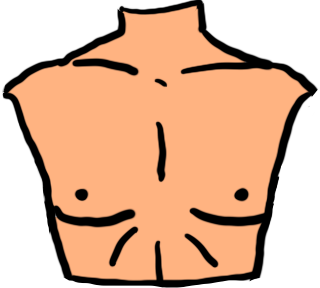
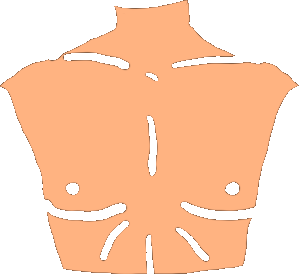
UPDATE: body now back

Changed region(s): [[0.0, 0.0, 1.0, 1.0], [0.4816, 0.4073, 0.5418, 0.64], [0.4816, 0.2618, 0.5418, 0.32]]

diff --git a/src/data/humans.ts b/src/data/humans.ts
@@ -155,10 +155,76 @@ const body_legacy: Parts[] = [
     },
 ];
 
+const back: Parts[] = [
+    {
+        uri: require('./Back/body.png'),
+        name: 'body',
+        width: 559,
+        height: 1286,
+        left: 0,
+        top: 0,
+        disabled: true,
+    },
+    {
+        uri: require('./Back/legs.png'),
+        name: '다리',
+        width: 215,
+        height: 550,
+        left: 30.05,
+        top: 54.59,
+        disabled: false,
+    },
+    {
+        uri: require('./Back/hip.png'),
+        name: '허리',
+        width: 227,
+        height: 291,
+        left: 28.98,
+        top: 33.59,
+        disabled: false,
+    },
+    {
+        uri: require('./Back/chest.png'),
+        name: '등',
+        width: 340,
+        height: 255,
+        left: 18.78,
+        top: 14.46,
+        disabled: false,
+    },
+    {
+        uri: require('./Back/left_arm.png'),
+        name: '팔',
+        width: 141,
+        height: 406,
+        left: 2.68,
+        top: 26.28,
+        disabled: false,
+    },
+    {
+        uri: require('./Back/right_arm.png'),
+        name: '팔',
+        width: 140,
+        height: 409,
+        left: 69.59,
+        top: 25.51,
+        disabled: false,
+    },
+    {
+        uri: require('./Back/head.png'),
+        name: '머리',
+        width: 144,
+        height: 168,
+        left: 35.78,
+        top: 2.33,
+        disabled: true,
+    },
+];
+
 const body: Parts[] = [
     {
-        uri: require('./Human/Human-1.png'),
-        name: 'default',
+        uri: require('./Human/body.png'),
+        name: 'body',
         width: 559,
         height: 1286,
         left: 0,
@@ -168,50 +234,50 @@ const body: Parts[] = [
     {
         uri: require('./Human/legs.png'),
         name: '다리',
-        width: 237,
-        height: 559,
-        left: 27.91,
-        top: 54.43,
+        width: 224,
+        height: 534,
+        left: 28.26,
+        top: 55.52,
         disabled: false,
     },
     {
         uri: require('./Human/stomach.png'),
         name: '복부',
-        width: 230,
-        height: 267,
-        left: 27.91,
-        top: 35.54,
+        width: 212,
+        height: 254,
+        left: 29.7,
+        top: 36.16,
         disabled: false,
     },
     {
         uri: require('./Human/chest.png'),
         name: '흉부',
-        width: 320,
-        height: 288,
-        left: 19.68,
-        top: 14.46,
+        width: 299,
+        height: 275,
+        left: 21.47,
+        top: 14.93,
         disabled: false,
     },
     {
         uri: require('./Human/arms-r.png'),
         name: '팔',
-        width: 151,
-        height: 467,
-        left: 2.33,
-        top: 21.46,
+        width: 139,
+        height: 455,
+        left: 3.58,
+        top: 22.08,
         disabled: false,
     },
     {
         uri: require('./Human/arms-l.png'),
         name: '팔',
-        width: 157,
-        height: 467,
-        left: 67.62,
-        top: 21.46,
+        width: 141,
+        height: 455,
+        left: 68.87,
+        top: 22.08,
         disabled: false,
     },
     {
-        uri: require('./Human/Head.png'),
+        uri: require('./Human/head.png'),
         name: '머리',
         width: 161,
         height: 196,
@@ -277,7 +343,7 @@ const neck: Parts[] = [
 
 
 export const humans: Humans = {
-    'body': body,
+    'body': back,
     'neck': neck,
 }
 

diff --git a/App.tsx b/App.tsx
@@ -9,10 +9,22 @@ import DetailScreen from "./src/screens/DetailScreen";
 
 const Stack = createNativeStackNavigator<RootStackParamList>();
 
+const MyTheme = {
+  dark: false,
+  colors: {
+    primary: 'rgb(255, 45, 85)',
+    background: 'rgb(255, 255, 255)',
+    card: 'rgb(255, 255, 255)',
+    text: 'rgb(28, 28, 30)',
+    border: 'rgb(199, 199, 204)',
+    notification: 'rgb(255, 69, 58)',
+  },
+};
+
 const App = () => {
   return (
     <RecoilRoot>
-      <NavigationContainer>
+      <NavigationContainer theme={MyTheme}>
         <Stack.Navigator initialRouteName="Human" screenOptions={{
           headerStyle: {
             backgroundColor: colors.primary,

diff --git a/src/styles/screenStyles.ts b/src/styles/screenStyles.ts
@@ -2,13 +2,13 @@ import { StyleSheet } from "react-native";
 
 export const styles = StyleSheet.create({
     container: {
-        flex: 1,
+        flex: 2,
     },
     topPrompt: {
         flex: 2,
     },
     humanContainer: {
-        flex: 7, 
+        flex: 10, 
         alignItems: 'center'
     },
     midPrompt: {

diff --git a/src/components/Button.tsx b/src/components/Button.tsx
@@ -38,7 +38,6 @@ const styles = StyleSheet.create({
         borderWidth: 2,
         borderStyle: 'solid',
         borderColor: colors.primary,
-        borderRadius: 20,
         width: '33%',
         height: '50%',
     },
